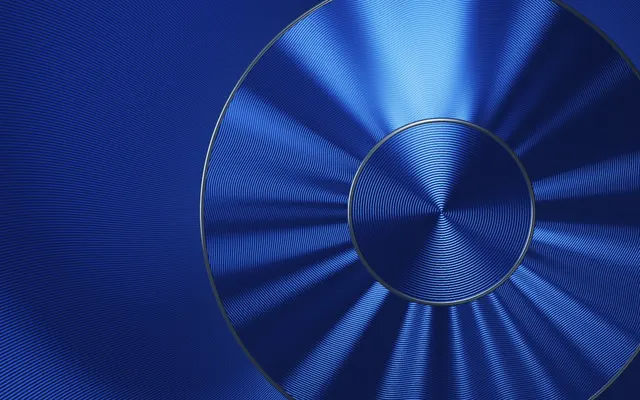
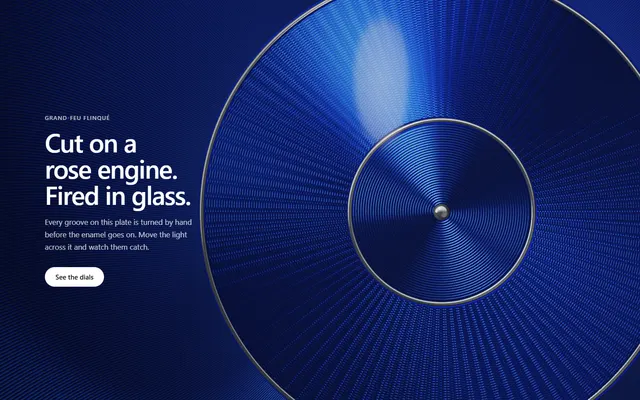
guilloche-enamel: round 2 fixes: barleycorn lattice, chrome beads, boss, fired-enamel intro, hero demo

diff --git a/components/guilloche-enamel/guilloche-enamel.tsx b/components/guilloche-enamel/guilloche-enamel.tsx
@@ -6,9 +6,9 @@ import * as React from "react"
  * Guilloché Enamel — an engine-turned silver plate under translucent enamel,
  * the way the dial of a fine watch is made, as a full-bleed surface.
  *
- * Every groove is real geometry computed per pixel: a snailed spiral centre,
- * a rosette of rose-engine waves, and a field of flame-cut sunburst rays,
- * divided by two polished beads. Each cut is a round-nosed scallop, so it
+ * Every groove is real geometry computed per pixel: a snailed spiral round a
+ * polished boss, a ring of barleycorn where two rose-engine passes cross, and
+ * a field of flame-cut sunburst rays, divided by two polished beads. Each cut is a round-nosed scallop, so it
  * throws light like metal does: an anisotropic highlight running along the
  * tool marks, a dim studio in the walls that face it, and a glassy enamel
  * coat on top with its own soft gloss of the lamp. The enamel pools deeper in
@@ -16,7 +16,8 @@ import * as React from "react"
  *
  * The pointer is the lamp. Press and hold to bring it down low, the way a
  * watchmaker rakes light across a dial. On load the rose engine cuts the
- * pattern into a polished blank, from the centre out.
+ * pattern into a bare silver blank from the centre out, then the enamel is
+ * fired over it.
  *
  * Self-contained: raw WebGL2, React is the only import, no CSS file.
  */
@@ -83,6 +84,12 @@ export function hexToRgb(hex: string) {
   if (!/^[0-9a-f]{6}$/i.test(h)) return [0, 0, 0]
   const n = parseInt(h, 16)
   return [((n >> 16) & 255) / 255, ((n >> 8) & 255) / 255, (n & 255) / 255]
+}
+
+/** CSS rgba() from any accepted hex, for the no-WebGL fallback. */
+export function rgba(hex: string, alpha: number) {
+  const [r, g, b] = hexToRgb(hex).map((c) => Math.round(c * 255))
+  return "rgba(" + r + "," + g + "," + b + "," + alpha + ")"
 }
 
 /** sRGB hex to linear light, which is what the shader mixes in. */
@@ -207,7 +214,23 @@ Surf surface(vec2 p) {
     if (r > front) return blank();
   }
 
-  // Polished beads between the zones: half-round, raised, mirror bright.
+  // The boss at the centre, where a dial's hands would sit: a small polished
+  // dome turned before any pattern was cut.
+  float boss = 0.02 * uScale;
+  if (r < boss) {
+    Surf s;
+    float x = r / boss;
+    float y = sqrt(max(1.0 - x * x, 0.04));
+    s.g = -er * (x / y) * 0.45;
+    s.t = et;
+    s.d = -1.0;
+    s.aT = 0.025;
+    s.aB = 0.03;
+    return s;
+  }
+
+  // Polished beads between the zones: half-round and raised, with the fine
+  // cusp the cutter leaves where each bead meets the field.
   for (int i = 0; i < 2; i++) {
     float Rk = i == 0 ? R0 : R1;
     float x = (r - Rk) / bead;
@@ -218,7 +241,16 @@ Surf surface(vec2 p) {
       s.t = et;
       s.d = -0.8 * y;
       s.aT = 0.025;
-      s.aB = 0.035;
+      s.aB = 0.03;
+      return s;
+    }
+    if (abs(x) < 1.45) {
+      Surf s;
+      s.g = er * sign(x) * 0.5;
+      s.t = et;
+      s.d = 1.5;
+      s.aT = 0.2;
+      s.aB = 0.45;
       return s;
     }
   }
@@ -233,16 +265,18 @@ Surf surface(vec2 p) {
   }
 
   if (r < R1) {
-    // Rose engine: concentric cuts whose radius a 14-lobe rosette cam pushes
-    // in and out. Too fine to count, they show as petals of light that turn
-    // with the lamp.
-    float P = 0.0055 * uPitch;
-    float N = 14.0;
-    float A = 0.011 * uScale;
-    float ph = N * th;
-    float phi = (r + A * sin(ph)) / P;
-    vec2 grad = (er + et * (A * cos(ph) * N / r)) / P;
-    return cutAlong(phi, grad, 0.05, 0.3);
+    // Grain d'orge (barleycorn): the rose engine cuts every ring twice, the
+    // second pass half a lobe out of phase. Where the two cuts cross they
+    // leave rows of grains; the deeper cut wins at every point.
+    float P = 0.0062 * uPitch;
+    float N = 48.0;
+    float A = 0.0034 * uPitch;
+    float sn = sin(N * th);
+    float lean = A * cos(N * th) * N / r;
+    Surf a = cutAlong((r + A * sn) / P, (er + et * lean) / P, 0.05, 0.3);
+    Surf b = cutAlong((r - A * sn) / P, (er - et * lean) / P, 0.05, 0.3);
+    if (a.d > b.d) return a;
+    return b;
   }
 
   // Flame-cut sunburst: rays from the centre that sway as they run out, too
@@ -294,7 +328,9 @@ float softbox(vec3 P3, vec3 R, float rough) {
   vec2 hit = P3.xy + R.xy * t - uLight.xy;
   float spread = 1.0 + rough * t * 6.0;
   vec2 u = hit / (vec2(0.1, 0.22) * spread);
-  return exp(-dot(u, u) * 2.2) / spread;
+  float d = length(u);
+  // a defined oval with a feathered rim, hot toward its middle
+  return (1.0 - smoothstep(0.7, 1.0, d)) * (0.6 + 0.4 * exp(-d * d * 3.0)) / spread;
 }
 
 vec3 shade(vec2 p) {
@@ -333,12 +369,15 @@ vec3 shade(vec2 p) {
   // The room, blurred along the direction the tool marks scatter it.
   vec3 room = (env(R) + env(normalize(R + B * aB)) + env(normalize(R - B * aB))) / 3.0;
 
+  // Polished parts (beads, boss) mirror the bright ceiling on their upper
+  // face and the dark room below, which is what makes a bead read as chrome.
+  room += vec3(0.55, 0.57, 0.6) * polish * smoothstep(-0.05, 0.45, R.y) * smoothstep(0.75, 0.97, R.z + 0.2);
   vec3 metal = uMetal * (key + room);
 
   // Through the enamel: it pools in the cuts and thins over the beads. The
   // colour is defined as one pass over polished metal, so thickness is an
   // exponent on it.
-  float thick = uDepth * (1.0 + 0.85 * s.d);
+  float thick = uDepth * (1.0 + 1.3 * s.d);
   vec3 col = metal * pow(max(uEnamel, vec3(1e-3)), vec3(max(thick, 0.0)));
   // a touch of light scattered inside the glass
   col += uEnamel * uDepth * 0.006 * (1.0 + s.d);
@@ -349,7 +388,7 @@ vec3 shade(vec2 p) {
     vec2 peel = vec2(noise(p * 11.0), noise(p * 11.0 + 7.3)) - 0.5;
     vec3 Rc = reflect(-V, normalize(vec3(peel * 0.01, 1.0)));
     float F = 0.04 + 0.96 * pow(1.0 - V.z, 5.0);
-    col += lampCol * softbox(P3, Rc, 0.0) * F * uLamp * 0.5 * min(uDepth, 1.0);
+    col += lampCol * softbox(P3, Rc, 0.0) * F * uLamp * 3.2 * min(uDepth, 1.0);
   }
   // the fresh burr thrown up by the cutter
   col += vec3(1.0, 0.97, 0.92) * gTool * 0.9;
@@ -549,8 +588,8 @@ export default function GuillocheEnamel({
     const draw = (now: number) => {
       raf = 0
       // Once the intro is done and nobody is steering, the lamp only drifts:
-      // 30 fps is plenty for that and halves the GPU's work.
-      if (!reduced && !steering && lastRender && now - lastRender < 31 && now - cutStart > INTRO_SECONDS * 1000) {
+      // 20 fps is plenty for that and cuts the GPU's work by two thirds.
+      if (!reduced && !steering && lastRender && now - lastRender < 48 && now - cutStart > INTRO_SECONDS * 1000 + 700) {
         raf = requestAnimationFrame(draw)
         return
       }
@@ -608,7 +647,9 @@ export default function GuillocheEnamel({
       gl.uniform1f(loc.cut, cutProgress((now - cutStart) / 1000, INTRO_SECONDS))
       gl.uniform3fv(loc.enamel, shown.enamel)
       gl.uniform3fv(loc.metal, shown.metal)
-      gl.uniform1f(loc.depth, P.depth)
+      // Cut the bare silver first, then fire the enamel in over 0.6 s.
+      const fired = Math.min(1, Math.max(0, ((now - cutStart) / 1000 - INTRO_SECONDS * 0.9) / 0.6))
+      gl.uniform1f(loc.depth, P.depth * fired * fired * (3 - 2 * fired))
       gl.uniform1f(loc.lamp, P.light)
       gl.uniform1f(loc.vignette, P.vignette)
       gl.uniform1f(loc.samples, software ? 2 : canvas.width / Math.max(1, canvas.clientWidth) > 1.05 ? 2 : 4)
@@ -720,8 +761,8 @@ export default function GuillocheEnamel({
           style={{
             background:
               "repeating-conic-gradient(from 0deg at 68% 52%, rgba(255,255,255,0.05) 0deg 0.4deg, rgba(0,0,0,0.05) 0.4deg 0.8deg), " +
-              "radial-gradient(ellipse 55% 45% at 32% 28%, " + finish.enamel + "aa, transparent 70%), " +
-              "radial-gradient(circle at 68% 52%, " + finish.metal + "55, #07090d 80%)",
+              "radial-gradient(ellipse 55% 45% at 32% 28%, " + rgba(finish.enamel, 0.66) + ", transparent 70%), " +
+              "radial-gradient(circle at 68% 52%, " + rgba(finish.metal, 0.33) + ", #07090d 80%)",
           }}
         />
       ) : (

diff --git a/components/guilloche-enamel/demo-hero.tsx b/components/guilloche-enamel/demo-hero.tsx
@@ -1,0 +1,27 @@
+"use client"
+
+import GuillocheEnamel from "@/components/ui/guilloche-enamel"
+
+export default function HeroDemo() {
+  return (
+    <GuillocheEnamel>
+      <div className="pointer-events-none flex h-full w-full items-end bg-gradient-to-t from-black/70 via-black/10 to-transparent px-5 pb-12 sm:items-center sm:bg-gradient-to-r sm:from-black/55 sm:via-black/15 sm:px-[7vw] sm:pb-0">
+        <div className="pointer-events-auto max-w-[26rem] text-white">
+          <p className="text-[13px] font-medium tracking-[0.08em] text-white/70 uppercase">Grand-feu flinqué</p>
+          <h1 className="mt-4 text-[clamp(2.2rem,4.2vw,3.6rem)] leading-[1.02] font-semibold tracking-[-0.03em] text-balance">
+            Cut on a rose engine. Fired in glass.
+          </h1>
+          <p className="mt-5 max-w-[21rem] text-[17px] leading-relaxed text-white/75">
+            Every groove on this plate is turned by hand before the enamel goes on. Move the light across it and watch them catch.
+          </p>
+          <a
+            href="#"
+            className="mt-8 inline-flex min-h-11 items-center gap-2 rounded-full bg-white px-6 text-[15px] font-semibold text-neutral-950 transition-transform duration-150 ease-out hover:-translate-y-px active:scale-[0.97] motion-reduce:transition-none focus-visible:outline-2 focus-visible:outline-offset-4 focus-visible:outline-white"
+          >
+            See the dials
+          </a>
+        </div>
+      </div>
+    </GuillocheEnamel>
+  )
+}

diff --git a/components/guilloche-enamel/demo-finishes.tsx b/components/guilloche-enamel/demo-finishes.tsx
@@ -19,7 +19,7 @@ export default function FinishesDemo() {
     <GuillocheEnamel preset={finish}>
       <div className="pointer-events-none flex h-full w-full items-end p-5 sm:p-8">
         <div
-          role="radiogroup"
+          role="group"
           aria-label="Finish"
           className="pointer-events-auto flex max-w-full flex-wrap gap-1 rounded-full border border-white/10 bg-neutral-950/85 p-1"
         >
@@ -27,8 +27,7 @@ export default function FinishesDemo() {
             <button
               key={key}
               type="button"
-              role="radio"
-              aria-checked={finish === key}
+              aria-pressed={finish === key}
               aria-label={LABELS[key]}
               onClick={() => setFinish(key)}
               className={

diff --git a/components/guilloche-enamel/README.md b/components/guilloche-enamel/README.md
@@ -1,11 +1,13 @@
 # Guilloché Enamel
 
 An engine-turned silver plate under translucent enamel, the way the dial of a
-fine watch is made, as a full-bleed background. A snailed spiral centre, a ring
-of rose-engine waves and a field of sunburst rays, split by two polished beads.
+fine watch is made, as a full-bleed background. A snailed spiral round a
+polished boss, a ring of barleycorn where two rose-engine passes cross, and a
+field of flame-cut sunburst rays, split by two chrome beads.
 The pointer is the lamp: move it and the light runs through the cuts; press and
 hold to bring it down low and rake it across them. On load the rose engine cuts
-the pattern into a mirror blank, from the centre out.
+the pattern into a bare silver blank from the centre out, then the enamel is
+fired over it.
 
 Background only. Put your content on top through `children`; with the default
 `align="right"` the left side is quiet sunburst satin that takes copy well.
@@ -42,33 +44,35 @@ height. The canvas fills this box, and without a real length it collapses to
 | `depth` | `1` | Enamel thickness. `0` is bare metal, `1.6` deep and inky. |
 | `light` | `1` | Lamp brightness. |
 | `vignette` | `0.55` | Edge darkening, 0 to 1. |
-| `intro` | `true` | Engine-turn the pattern into a mirror blank on mount (2.1 s). |
+| `intro` | `true` | Engine-turn the bare blank on mount (2.1 s), then fire the enamel in (0.6 s). |
 | `interactive` | `true` | Pointer moves the lamp, press lowers it. Off, the lamp drifts on its own. |
-| `maxDpr` | `1.5` | Device-pixel-ratio cap. The shader supersamples 4×, so this is plenty. |
+| `maxDpr` | `1.5` | Device-pixel-ratio cap. The shader supersamples (4× on 1x screens, 2× on dense or software ones), so this is plenty. |
 | `children` | — | Rendered above the plate. |
 | `className` | `""` | Appended to the root. |
 
 Visual props are read through a ref, so changing one (a finish picker, a theme
 switch) never rebuilds the GL context. `GUILLOCHE_PRESETS`, `hexToRgb` and
-`hexToLinear` are exported.
+`hexToLinear` and `rgba` are exported.
 
 ## How it works
 
 - Each zone is a groove family written as a phase function: a one-start spiral
-  (colimaçon), concentric rings pushed in and out by a 36-lobe rosette cam, and
-  900 straight rays. The cutter is round-nosed, so the cross-section of every
+  (colimaçon), two passes of a 48-lobe rose engine half a lobe apart whose
+  crossings leave barleycorn grains (the deeper cut wins at every point), and
+  about 900 rays swayed by a slow flame. The cutter is round-nosed, so the cross-section of every
   groove is a scallop whose slope runs straight from wall to wall; the slope
   and the groove direction give a normal and a tangent at every pixel.
 - Metal is lit with a Ward anisotropic highlight aligned to the tool marks, so
   the light streaks across the cuts the way it does on a real dial, plus a dark
   studio (a diffuser panel, a strip light, a warm bounce) blurred along the
-  same direction. Polished parts (the beads, the uncut blank) mirror the lamp's
-  strip softbox instead.
+  same direction. Polished parts (the beads, the boss, the uncut blank) mirror
+  the lamp and the bright ceiling instead, so the beads read as chrome.
 - The enamel is a filter whose thickness is an exponent on its colour: it
   pools darker in the cuts and thins over the beads. Its fired surface carries
-  its own faint reflection of the softbox, with a little orange peel.
+  its own glossy reflection of the lamp, with a little orange peel.
 - Grooves finer than the pixel grid fade into the satin sheen they average to,
-  and the frame is 4× supersampled, so it does not moiré. Groove pitch is held
+  and the frame is supersampled, which keeps moiré down to a faint shimmer at
+  most. Groove pitch is held
   in CSS pixels, so a short section shows the same cuts as a full screen.
 
 ## Notes
@@ -76,7 +80,10 @@ switch) never rebuilds the GL context. `GUILLOCHE_PRESETS`, `hexToRgb` and
 - `prefers-reduced-motion`: no intro, no drift, one still frame of the finished
   plate. The lamp still follows the pointer on demand.
 - On touch the page scrolls normally; the lamp follows a finger that is down.
-- Scrolled off-screen, it stops rendering and resumes on return.
+- Scrolled off-screen, it stops rendering and resumes on return. Left alone,
+  the drifting lamp redraws at 20 fps.
+- `demo-hero.tsx` shows copy on the quiet side; `demo-finishes.tsx` switches
+  finishes live (the plate eases between them).
 - No WebGL2 falls back to a CSS still in the same finish. A lost GPU context is
   caught and the scene rebuilt.
 - The pointer is read off the component, not `window`, and the cursor is never

diff --git a/media/guilloche-enamel/review.md b/media/guilloche-enamel/review.md
@@ -21,3 +21,26 @@ rainbow, toy pop).
 6. Mobile: rose cuts become chunky squiggles, bottom third empty; picker overflows at 375 and is a glass pill.
 7. Perf: 4x SS at 1.5 DPR plus idle drift never stops.
 8. Docblock says clous de Paris, README overclaims "does not moiré".
+
+Changes after round 1: coat gloss became a feathered ellipse at 0.5 gain; the blank is polished and mirrors a
+feathered lamp; beads appear only as the cutter passes; cobalt lightened with more room fill (upper-right
+quadrant 28% mean luminance); 14-lobe rosette petals; flame-swayed sunburst; soft-capped lamp and LOW 0.4;
+2x supersampling on HiDPI and software renderers, 30 fps idle; phone scale and centre reworked; picker solid,
+wrapping, swatch-only under sm; docblock fixed.
+
+## Round 2 — REDO (a 7 · b 6 · c 6 · d 9)
+
+1. Reads as spun / circular-brushed aluminium (CD, speaker cone): no crossing lattice, which is what makes guilloché recognisable.
+2. Enamel never reads as glass: coat gloss invisible head-on; pooled vs ridge contrast too low.
+3. Beads read as matte grey strokes, not polished mirror beads.
+4. Pitch coarse on phones (vinyl / hypnotic spiral).
+5. Pixel knot at the spiral singularity; wants a centre boss.
+6. Intro first frame is a flat gradient with a blurry oval: engine-turn bare silver, then fire the enamel.
+7. Composition crops the outer bead; demo leaves the quiet side empty, wants real copy.
+8. README stale (36 lobes, straight rays, 4x); fallback breaks on 3-digit hex; radiogroup lacks arrow keys; idle drift forever.
+
+Changes after round 2: the rose ring became barleycorn (two 48-lobe rose-engine passes half a lobe apart, deeper
+cut wins); chrome beads (mirror the bright ceiling) with a dark cusp either side; a polished boss over the spiral
+centre; enamel pools harder (thickness 1 + 1.3 depth); a defined feathered-oval gloss on the fired coat; intro cuts
+bare silver then fires the enamel in over 0.6 s; demo-hero with real copy on the quiet side; idle drift at 20 fps;
+README corrected; fallback colours through rgba(); picker uses aria-pressed buttons.
